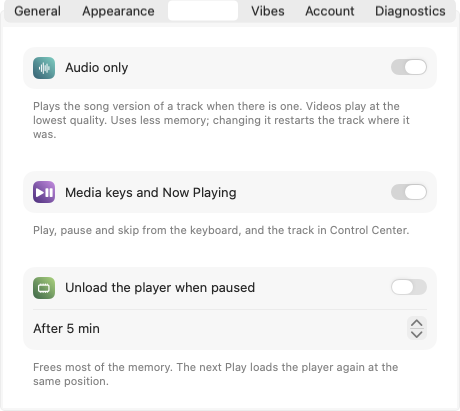
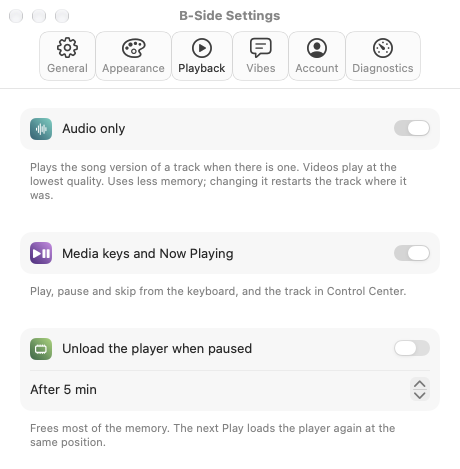
Settings: the tabs in the window's toolbar, as a settings window has them
The pane alone in the window looked wrong: tabs as a segmented control
under the title. An NSToolbar in the preference style holds them now.
The hosting controller sets only the window's preferred size: letting it
set the minimum and maximum too made AppKit throw during layout.

Snapshots capture the whole settings window, toolbar included.

diff --git a/Sources/BSide/Views/Settings/SettingsWindow.swift b/Sources/BSide/Views/Settings/SettingsWindow.swift
@@ -2,24 +2,94 @@ import AppKit
 import SwiftUI
 
 /// The one Settings window, opened from the app menu (Command-comma) and
-/// from the menu bar. Our own window, not SwiftUI's Settings scene: that
-/// scene can be opened from AppKit only through a private selector, which
-/// stopped working.
+/// from the menu bar. Our own window with the tabs in its toolbar, as
+/// settings windows have them; not SwiftUI's Settings scene, which can be
+/// opened from AppKit only through a private selector that stopped working.
 @MainActor
-enum SettingsWindow {
-    private static var window: NSWindow?
+final class SettingsWindow: NSObject, NSToolbarDelegate {
+    private static var shared: SettingsWindow?
 
     static func show(player: PlayerController) {
-        if window == nil {
-            let hosting = NSHostingController(rootView: SettingsView().environmentObject(player))
-            let made = NSWindow(contentViewController: hosting)
-            made.styleMask = [.titled, .closable, .miniaturizable]
-            made.title = "B-Side Settings"
-            made.isReleasedWhenClosed = false
-            made.center()
-            window = made
-        }
+        let window = shared ?? SettingsWindow(player: player)
+        shared = window
         NSApp.activate(ignoringOtherApps: true)
-        window?.makeKeyAndOrderFront(nil)
+        window.window.makeKeyAndOrderFront(nil)
+    }
+
+    /// A window of its own on one tab, for the snapshots.
+    static func make(player: PlayerController, tab: SettingsView.Tab) -> (window: NSWindow, keep: AnyObject) {
+        let made = SettingsWindow(player: player)
+        made.show(tab)
+        return (made.window, made)
+    }
+
+    let window: NSWindow
+    private let player: PlayerController
+    private var tab: SettingsView.Tab = .general
+
+    private init(player: PlayerController) {
+        self.player = player
+        window = NSWindow(contentViewController: Self.pane(.general, player: player))
+        super.init()
+        window.styleMask = [.titled, .closable, .miniaturizable]
+        window.title = "B-Side Settings"
+        window.isReleasedWhenClosed = false
+        let toolbar = NSToolbar(identifier: "settings")
+        toolbar.delegate = self
+        toolbar.allowsUserCustomization = false
+        toolbar.displayMode = .iconAndLabel
+        toolbar.selectedItemIdentifier = Self.identifier(tab)
+        window.toolbar = toolbar
+        window.toolbarStyle = .preference
+        window.center()
+    }
+
+    private static func identifier(_ tab: SettingsView.Tab) -> NSToolbarItem.Identifier {
+        NSToolbarItem.Identifier(tab.rawValue)
+    }
+
+    @objc private func choose(_ item: NSToolbarItem) {
+        if let tab = SettingsView.Tab(rawValue: item.itemIdentifier.rawValue) { show(tab) }
+    }
+
+    private func show(_ tab: SettingsView.Tab) {
+        guard tab != self.tab else { return }
+        self.tab = tab
+        window.toolbar?.selectedItemIdentifier = Self.identifier(tab)
+        window.contentViewController = Self.pane(tab, player: player)
+    }
+
+    /// The window takes the pane's size. Letting the hosting controller set
+    /// the window's minimum and maximum too makes AppKit throw while it lays
+    /// out the toolbar.
+    private static func pane(_ tab: SettingsView.Tab, player: PlayerController) -> NSHostingController<some View> {
+        let hosting = NSHostingController(rootView: SettingsView(tab: tab).environmentObject(player))
+        hosting.sizingOptions = .preferredContentSize
+        return hosting
+    }
+
+    // MARK: NSToolbarDelegate
+
+    func toolbarDefaultItemIdentifiers(_ toolbar: NSToolbar) -> [NSToolbarItem.Identifier] {
+        SettingsView.Tab.allCases.map(Self.identifier)
+    }
+
+    func toolbarAllowedItemIdentifiers(_ toolbar: NSToolbar) -> [NSToolbarItem.Identifier] {
+        toolbarDefaultItemIdentifiers(toolbar)
+    }
+
+    func toolbarSelectableItemIdentifiers(_ toolbar: NSToolbar) -> [NSToolbarItem.Identifier] {
+        toolbarDefaultItemIdentifiers(toolbar)
+    }
+
+    func toolbar(_ toolbar: NSToolbar, itemForItemIdentifier identifier: NSToolbarItem.Identifier,
+                 willBeInsertedIntoToolbar: Bool) -> NSToolbarItem? {
+        guard let tab = SettingsView.Tab(rawValue: identifier.rawValue) else { return nil }
+        let item = NSToolbarItem(itemIdentifier: identifier)
+        item.label = tab.title
+        item.image = NSImage(systemSymbolName: tab.symbol, accessibilityDescription: tab.title)
+        item.target = self
+        item.action = #selector(choose(_:))
+        return item
     }
 }

diff --git a/Sources/BSide/Views/Settings/SettingsView.swift b/Sources/BSide/Views/Settings/SettingsView.swift
@@ -1,44 +1,43 @@
 import ServiceManagement
 import SwiftUI
 
-/// The standard macOS settings window: Command-comma, tabs, grouped forms,
-/// system controls in B-Side's orange, and each setting with a small icon in
-/// one of the Vibe colours, as System Settings has them.
+/// The standard macOS settings window: Command-comma, tabs in the toolbar
+/// (SettingsWindow puts them there), grouped forms, system controls in
+/// B-Side's orange, and each setting with a small icon in one of the Vibe
+/// colours, as System Settings has them. This is one tab's pane.
 struct SettingsView: View {
     enum Tab: String, CaseIterable {
         case general, appearance, playback, vibes, account, diagnostics
+
+        var title: String { rawValue.capitalized }
+
+        var symbol: String {
+            switch self {
+            case .general: "gearshape"
+            case .appearance: "paintpalette"
+            case .playback: "play.circle"
+            case .vibes: "text.bubble"
+            case .account: "person.crop.circle"
+            case .diagnostics: "gauge.with.dots.needle.33percent"
+            }
+        }
     }
 
-    @State private var tab: Tab
-
-    init(tab: Tab = .general) {
-        _tab = State(initialValue: tab)
-    }
+    var tab: Tab = .general
 
     var body: some View {
-        TabView(selection: $tab) {
-            GeneralSettings()
-                .tabItem { Label("General", systemImage: "gearshape") }
-                .tag(Tab.general)
-            AppearanceSettings()
-                .tabItem { Label("Appearance", systemImage: "paintpalette") }
-                .tag(Tab.appearance)
-            PlaybackSettings()
-                .tabItem { Label("Playback", systemImage: "play.circle") }
-                .tag(Tab.playback)
-            VibeSettings()
-                .tabItem { Label("Vibes", systemImage: "text.bubble") }
-                .tag(Tab.vibes)
-            AccountSettings()
-                .tabItem { Label("Account", systemImage: "person.crop.circle") }
-                .tag(Tab.account)
-            DiagnosticsSettings()
-                .tabItem { Label("Diagnostics", systemImage: "gauge.with.dots.needle.33percent") }
-                .tag(Tab.diagnostics)
+        Group {
+            switch tab {
+            case .general: GeneralSettings()
+            case .appearance: AppearanceSettings()
+            case .playback: PlaybackSettings()
+            case .vibes: VibeSettings()
+            case .account: AccountSettings()
+            case .diagnostics: DiagnosticsSettings()
+            }
         }
         .frame(width: Theme.Size.settingsWidth)
         .tint(Theme.Colors.accent)
-        .background(SettingsTitle())
     }
 }
 
@@ -69,30 +68,6 @@ struct ThinScrollers: NSViewRepresentable {
 
 /// "B-Side Settings" as the window's title on every tab: SwiftUI's settings
 /// window would repeat the tab's name there.
-private struct SettingsTitle: NSViewRepresentable {
-    static let title = "B-Side Settings"
-
-    func makeNSView(context: Context) -> NSView { TitleKeeper() }
-    func updateNSView(_ view: NSView, context: Context) {}
-
-    private final class TitleKeeper: NSView {
-        private var watch: NSKeyValueObservation?
-
-        override func viewDidMoveToWindow() {
-            super.viewDidMoveToWindow()
-            guard let window else { return watch = nil }
-            (window.contentViewController as? NSTabViewController)?.canPropagateSelectedChildViewControllerTitle = false
-            window.title = SettingsTitle.title
-            // A tab change may still set it; set it back.
-            watch = window.observe(\.title, options: [.new]) { window, _ in
-                MainActor.assumeIsolated {
-                    if window.title != SettingsTitle.title { window.title = SettingsTitle.title }
-                }
-            }
-        }
-    }
-}
-
 /// A setting's name with its icon: a white symbol on a small rounded square
 /// in one of VibePalette's gradients.
 struct SettingLabel: View {

diff --git a/Sources/BSide/Design/Snapshots.swift b/Sources/BSide/Design/Snapshots.swift
@@ -107,18 +107,16 @@ enum Snapshots {
         ]
         for tab in SettingsView.Tab.allCases {
             for (suffix, appearance) in [("light", NSAppearance.Name.aqua), ("dark", .darkAqua)] {
-                let hosting = NSHostingController(rootView: SettingsView(tab: tab).environmentObject(player))
-                let window = NSWindow(contentViewController: hosting)
-                window.styleMask = [NSWindow.StyleMask.titled, .closable]
-                window.title = "B-Side Settings"
+                // The real window, toolbar and all: the whole frame is captured.
+                let (window, keep) = SettingsWindow.make(player: player, tab: tab)
                 window.appearance = NSAppearance(named: appearance)
-                window.isReleasedWhenClosed = false
                 window.setFrameOrigin(NSPoint(x: -4000, y: -4000))
                 window.orderFrontRegardless()
                 try? await Task.sleep(for: .seconds(0.8))
-                window.setContentSize(hosting.view.fittingSize)
+                if let contentView = window.contentView { window.setContentSize(contentView.fittingSize) }
                 try? await Task.sleep(for: .seconds(0.4))
-                if let image = capture(window) {
+                withExtendedLifetime(keep) {}
+                if let image = capture(window, frame: true) {
                     try? image.write(to: folder.appendingPathComponent("settings-\(tab.rawValue)-\(suffix).png"))
                 }
                 window.close()
@@ -363,8 +361,8 @@ enum Snapshots {
         window.close()
     }
 
-    private static func capture(_ window: NSWindow) -> Data? {
-        guard let view = window.contentView,
+    private static func capture(_ window: NSWindow, frame: Bool = false) -> Data? {
+        guard let view = frame ? window.contentView?.superview : window.contentView,
               let rep = view.bitmapImageRepForCachingDisplay(in: view.bounds) else { return nil }
         view.cacheDisplay(in: view.bounds, to: rep)
         return rep.representation(using: .png, properties: [:])
